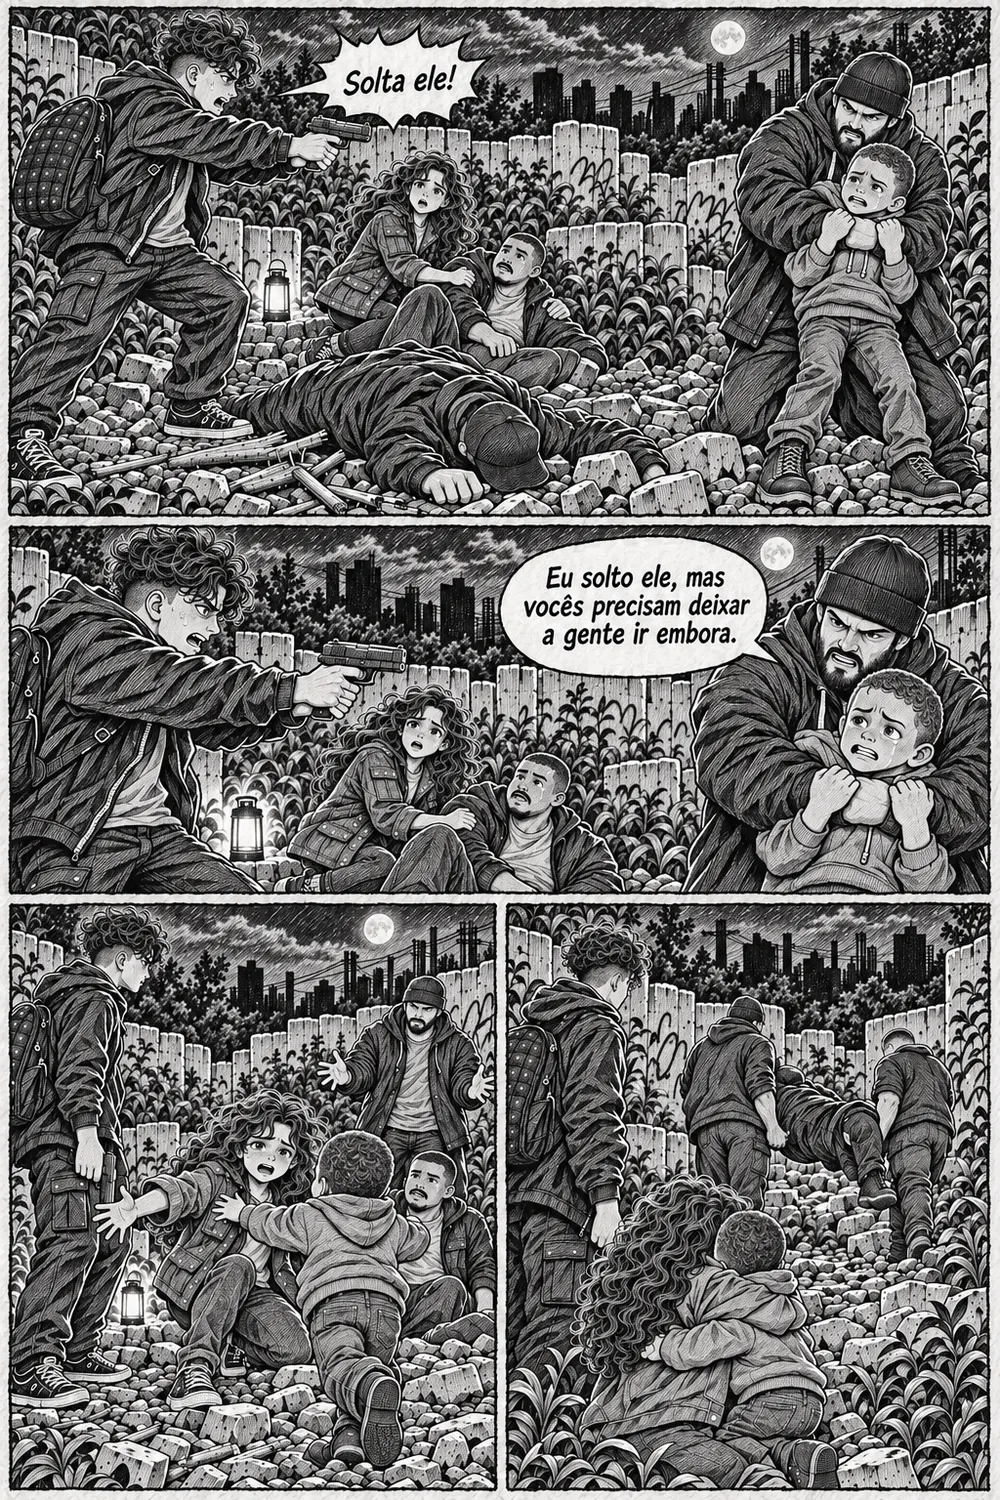
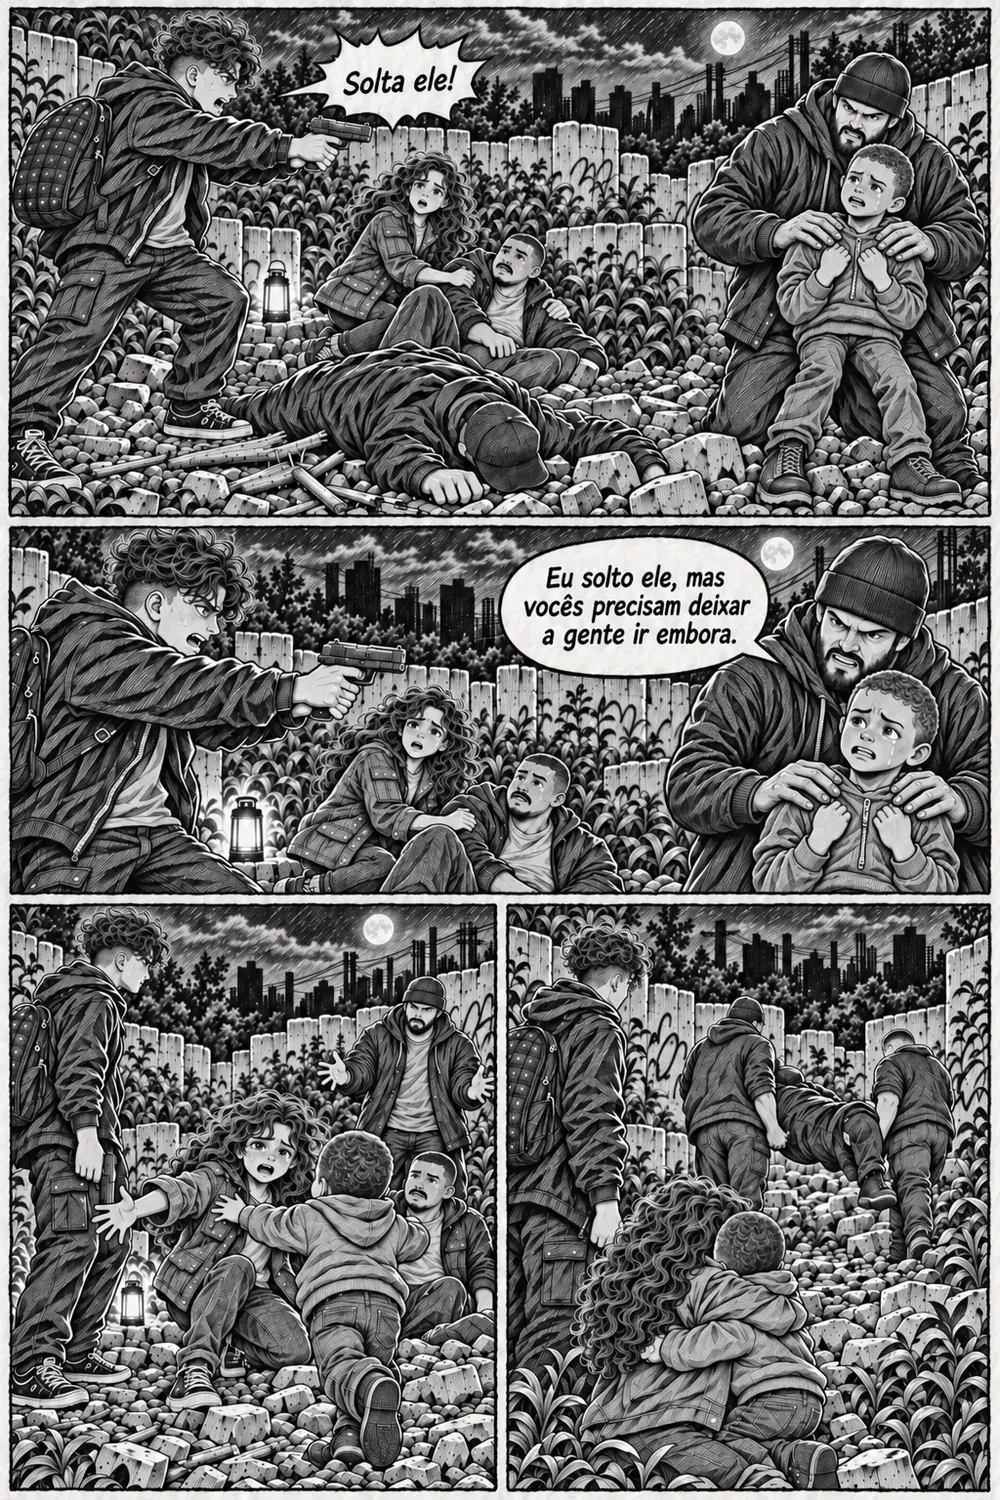
Atualizar capítulo 2 e publicar capítulo 3

diff --git a/catalogo.js b/catalogo.js
@@ -23,10 +23,9 @@ window.ESTANTE_INICIAL = [
     type: "quadrinho",
     title: "A Última Luz",
     cover: "arte/capa-ultima-luz.jpg",
-    label: "2 capítulos",
     summary: "O mundo conhecido acabou. Em meio a uma cidade tomada pelos mortos, sobreviver é só o começo.",
     // A ordem desta lista define a ordem em que as capas aparecem na tela de capítulos.
-    chapters: [chapter(1, "jpg", "Acorda, Celina"), chapter(2, "webp", "Vamos juntos")]
+    chapters: [chapter(1, "jpg", "Acorda, Celina"), chapter(2, "webp", "Vamos juntos"), chapter(3, "webp", "Reencontro sob cerco")]
   },
   {
     // O livro de poesia usa uma imagem por página para preservar a diagramação do PDF.

diff --git a/app.js b/app.js
@@ -31,7 +31,8 @@ function drawShelf() {
     }
     const info = node("div", "book-info");
     info.append(node("p", "eyebrow", categories[book.type]), node("h3", "", book.title));
-    if (book.label) info.append(node("p", "book-label", book.label));
+    if (book.chapters) info.append(node("p", "book-label", book.chapters.length + (book.chapters.length === 1 ? " capítulo" : " capítulos")));
+    else if (book.label) info.append(node("p", "book-label", book.label));
     info.append(node("p", "summary", book.summary));
     const route = book.chapters ? "#quadrinho/" + book.id : "#ler/" + book.id;
     if (book.chapters || book.pages?.length) {
